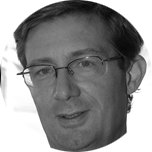
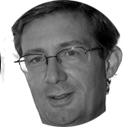
Added Panelists

diff --git a/index.php b/index.php
@@ -141,26 +141,23 @@
 						<a class="twitter" href="http://twitter.com/jearner">jearner</a>
 					</div><!-- end second speaker-left -->
 					
-					<div class="third speaker-right">
+					<div class="third speaker-right speaker-tbc">
 						<div class="white-bg">
-							<img src="images/nic_newman.png" width="152" height="152" alt="Nic Newman" />
+							<img src="images/tbc.png" width="152" height="152" alt="TBA" />
 						</div>
-						<h4>Nic Newman</h4>
-						<p class="speciality">Visiting Fellow, Reuters Institute of Journalism</p>
-						<p class="info">Former Head of Product Development and Controller Future Media at the BBC.</p>
-						<a class="twitter" href="http://twitter.com/nicnewman">nicnewman</a>
+						<h4>Announcing soon</h4>
 					</div><!-- end third speaker-right -->
 
 					<div class="third speaker-left speaker-tbc">
 						<div class="white-bg">
-							<img src="images/tbc.png" width="152" height="152" alt="TBC" />
+							<img src="images/tbc.png" width="152" height="152" alt="TBA" />
 						</div>
 						<h4>Announcing soon</h4>
 					</div> <!-- end third speaker-left -->
 
 					<div class="fourth speaker-right speaker-tbc">
 						<div class="white-bg">
-							<img src="images/tbc.png" width="152" height="152" alt="TBC" />
+							<img src="images/tbc.png" width="152" height="152" alt="TBA" />
 						</div>
 						<h4>Announcing soon</h4>
 					</div> <!-- end fourth speaker-right -->
@@ -171,7 +168,7 @@
 					 <h3>Panelists</h3>
 					 <div class="panel-member">
 					   <div class="white-bg">
-							<img src="images/thumby.png" width="127" height="127" alt="Tom Hulme" />
+							<img src="images/nic_newman.png" width="127" height="127" alt="Tom Hulme" />
 						</div>
 						<h4>Nic Newman</h4>
 						<p class="speciality">Visiting Fellow, Reuters Institute of Journalism</p>
@@ -179,35 +176,39 @@
 					 
 					 <div class="panel-member">
 					   <div class="white-bg">
-							<img src="images/thumby.png" width="127" height="127" alt="Tom Hulme" />
+							<img src="images/tanya_cordrey.png" width="127" height="127" alt="Tom Hulme" />
 						</div>
-						<h4>Nic Newman</h4>
-						<p class="speciality">Visiting Fellow, Reuters Institute of Journalism</p>
+						<h4>Tanya Cordrey</h4>
+						<p class="speciality">Digital Development Director, Guardian</p>
 					 </div><!-- end panel-member -->
 					 
+					 <div class="panel-member">
+					   <div class="white-bg">
+							<img src="images/diana_stepner.png" width="127" height="127" alt="Tom Hulme" />
+						</div>
+						<h4>Diana Stepner</h4>
+						<p class="speciality">Head of Future Technologies, Pearson</p>
+					 </div><!-- end panel-member -->
+					 
+					 <!--
+
 					 <div class="panel-member">
 					   <div class="white-bg">
 							<img src="images/thumby.png" width="127" height="127" alt="Tom Hulme" />
 						</div>
 						<h4>Nic Newman</h4>
 						<p class="speciality">Visiting Fellow, Reuters Institute of Journalism</p>
-					 </div><!-- end panel-member -->
+					 </div>--><!-- end panel-member -->
 					 
+					 <!--
+
 					 <div class="panel-member">
 					   <div class="white-bg">
 							<img src="images/thumby.png" width="127" height="127" alt="Tom Hulme" />
 						</div>
 						<h4>Nic Newman</h4>
 						<p class="speciality">Visiting Fellow, Reuters Institute of Journalism</p>
-					 </div><!-- end panel-member -->
-					 
-					 <div class="panel-member">
-					   <div class="white-bg">
-							<img src="images/thumby.png" width="127" height="127" alt="Tom Hulme" />
-						</div>
-						<h4>Nic Newman</h4>
-						<p class="speciality">Visiting Fellow, Reuters Institute of Journalism</p>
-					 </div><!-- end panel-member -->
+					 </div>--><!-- end panel-member -->
 					</div><!-- end panelists-->		
 
 					<div class="clear"></div>
